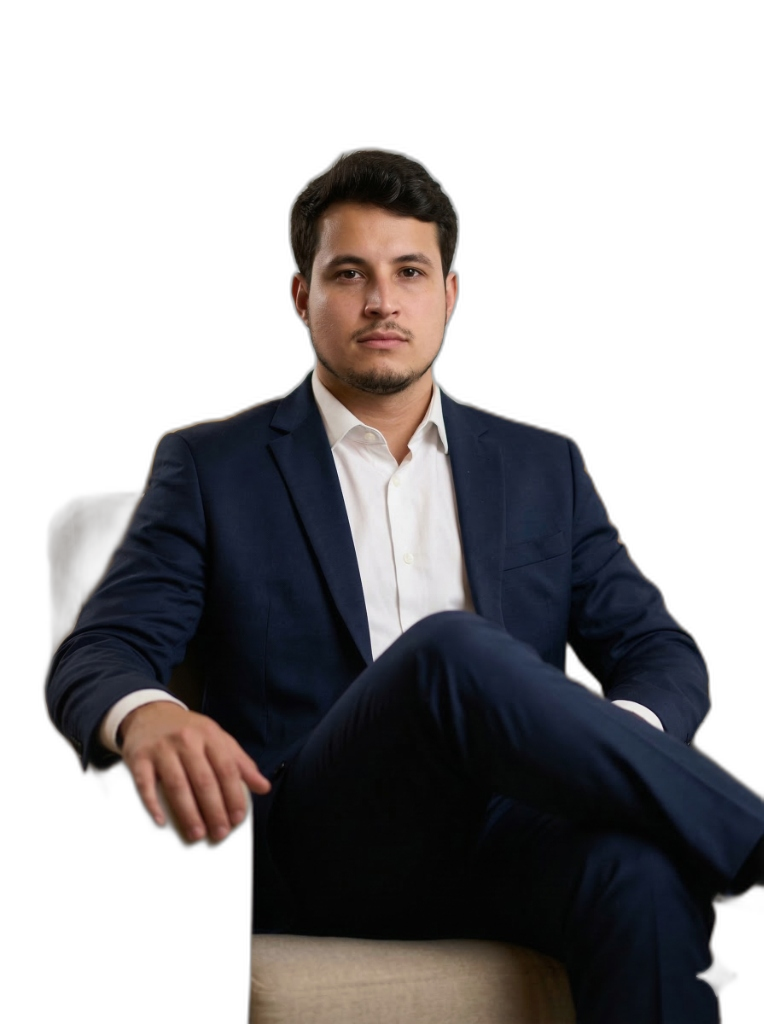
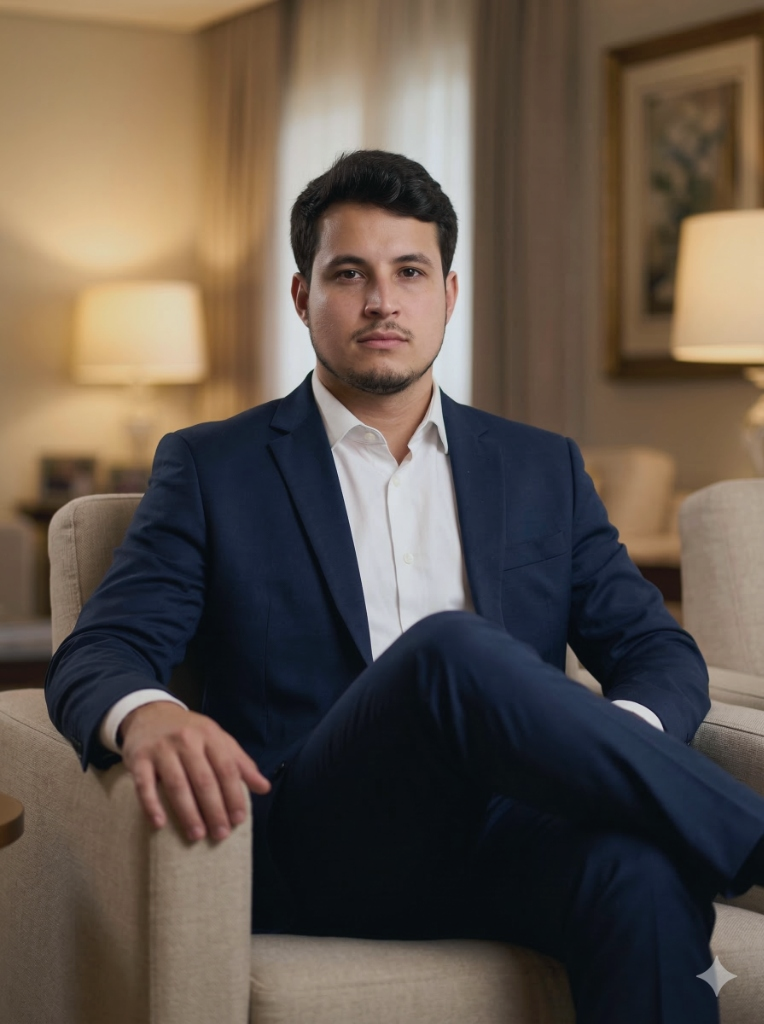
style: ajustes visuais - tom azul acinzentado, fonte serif (Playfair Display), imagens transparentes, hero maior
- Paleta de cores atualizada para azul acinzentado (#2B4361) matching a logo
- Fonte de headings trocada de Montserrat para Playfair Display (serif)
- Imagens hero e about processadas com rembg (transparência real)
- Logo processada com PIL (remoção de fundo branco)
- Imagem do consultório neurológico gerada (ressonância magnética)
- About photo mantém sofá com blue tint
- Hero image ampliada (max-width 800px)
- Backgrounds atualizados de blue-* para slate-*

diff --git a/index.html b/index.html
@@ -1,68 +1,75 @@
 <!DOCTYPE html>
 <html lang="pt-BR">
-  <head>
-    <meta charset="UTF-8" />
-    <meta name="viewport" content="width=device-width, initial-scale=1.0" />
-    <title>Dr. Caio Tardim | Neurologista no Rio de Janeiro</title>
-    <meta name="description" content="Neurologista especializado em diagnóstico e tratamento de doenças neurológicas. Neuroimunologia, cefaleia, Parkinson, Alzheimer e mais. Rio de Janeiro - RJ." />
 
-    <!-- Google Tag Manager -->
-    <script>
-      (function(w,d,s,l,i){
-        w[l]=w[l]||[]; w[l].push({'gtm.start': new Date().getTime(), event:'gtm.js'});
-        var f=d.getElementsByTagName(s)[0], j=d.createElement(s), dl=l!='dataLayer'?'&l='+l:'';
-        j.async=true; j.src='https://www.googletagmanager.com/gtm.js?id='+i+dl;
-        f.parentNode.insertBefore(j,f);
-      })(window,document,'script','dataLayer','GTM-KK4H6Z5G');
-    </script>
-    <!-- End Google Tag Manager -->
-    
-    <!-- Google Fonts -->
-    <link rel="preconnect" href="https://fonts.googleapis.com">
-    <link rel="preconnect" href="https://fonts.gstatic.com" crossorigin>
-    <link href="https://fonts.googleapis.com/css2?family=Montserrat:wght@400;500;600;700;800&family=Open+Sans:wght@400;500;600&display=swap" rel="stylesheet">
+<head>
+  <meta charset="UTF-8" />
+  <meta name="viewport" content="width=device-width, initial-scale=1.0" />
+  <title>Dr. Caio Tardim | Neurologista no Rio de Janeiro</title>
+  <meta name="description"
+    content="Neurologista especializado em diagnóstico e tratamento de doenças neurológicas. Neuroimunologia, cefaleia, Parkinson, Alzheimer e mais. Rio de Janeiro - RJ." />
 
-    <!-- Tailwind CSS -->
-    <script src="https://cdn.tailwindcss.com"></script>
-    
-    <!-- Tailwind Config -->
-    <script>
-      tailwind.config = {
-        theme: {
-          extend: {
-            fontFamily: {
-              sans: ['"Open Sans"', 'sans-serif'],
-              heading: ['"Montserrat"', 'sans-serif'],
+  <!-- Google Tag Manager -->
+  <script>
+    (function (w, d, s, l, i) {
+      w[l] = w[l] || []; w[l].push({ 'gtm.start': new Date().getTime(), event: 'gtm.js' });
+      var f = d.getElementsByTagName(s)[0], j = d.createElement(s), dl = l != 'dataLayer' ? '&l=' + l : '';
+      j.async = true; j.src = 'https://www.googletagmanager.com/gtm.js?id=' + i + dl;
+      f.parentNode.insertBefore(j, f);
+    })(window, document, 'script', 'dataLayer', 'GTM-KK4H6Z5G');
+  </script>
+  <!-- End Google Tag Manager -->
+
+  <!-- Google Fonts -->
+  <link rel="preconnect" href="https://fonts.googleapis.com">
+  <link rel="preconnect" href="https://fonts.gstatic.com" crossorigin>
+  <link
+    href="https://fonts.googleapis.com/css2?family=Playfair+Display:wght@400;500;600;700;800&family=Open+Sans:wght@400;500;600&display=swap"
+    rel="stylesheet">
+
+  <!-- Tailwind CSS -->
+  <script src="https://cdn.tailwindcss.com"></script>
+
+  <!-- Tailwind Config -->
+  <script>
+    tailwind.config = {
+      theme: {
+        extend: {
+          fontFamily: {
+            sans: ['"Open Sans"', 'sans-serif'],
+            heading: ['"Playfair Display"', 'serif'],
+          },
+          colors: {
+            primary: {
+              DEFAULT: '#2B4361', // Azul acinzentado (tom da logo)
+              dark: '#1A2F45',    // Azul escuro acinzentado
+              light: '#EEF2F7',   // Fundo claro azulado
             },
-            colors: {
-              primary: {
-                DEFAULT: '#2856A8', // Azul Institucional
-                dark: '#1B3A72',    // Azul Escuro
-                light: '#F0F6FF',   // Fundo Claro
-              },
-              secondary: '#4FA4D6', // Ciano/Acento
-              whatsapp: '#25D366',
-            },
-            backgroundImage: {
-              'hero-gradient': 'linear-gradient(to bottom right, #FFFFFF, #F0F6FF)',
-            },
-            boxShadow: {
-              'soft': '0 10px 40px -10px rgba(40, 86, 168, 0.1)',
-            }
+            secondary: '#5A8BAD', // Ciano/Acento acinzentado
+            whatsapp: '#25D366',
+          },
+          backgroundImage: {
+            'hero-gradient': 'linear-gradient(to bottom right, #FFFFFF, #EEF2F7)',
+          },
+          boxShadow: {
+            'soft': '0 10px 40px -10px rgba(43, 67, 97, 0.1)',
           }
         }
       }
-    </script>
-  
-  </head>
-  <body class="font-sans text-gray-700 antialiased bg-white">
-    <!-- Google Tag Manager (noscript) -->
-    <noscript>
-      <iframe src="https://www.googletagmanager.com/ns.html?id=GTM-KK4H6Z5G" height="0" width="0" style="display:none;visibility:hidden"></iframe>
-    </noscript>
-    <!-- End Google Tag Manager (noscript) -->
-    <div id="root"></div>
-    <!-- Inicialização da aplicação React via Vite -->
-    <script type="module" src="/index.tsx"></script>
-  </body>
+    }
+  </script>
+
+</head>
+
+<body class="font-sans text-gray-700 antialiased bg-white">
+  <!-- Google Tag Manager (noscript) -->
+  <noscript>
+    <iframe src="https://www.googletagmanager.com/ns.html?id=GTM-KK4H6Z5G" height="0" width="0"
+      style="display:none;visibility:hidden"></iframe>
+  </noscript>
+  <!-- End Google Tag Manager (noscript) -->
+  <div id="root"></div>
+  <!-- Inicialização da aplicação React via Vite -->
+  <script type="module" src="/index.tsx"></script>
+</body>
+
 </html>

diff --git a/components/Hero.tsx b/components/Hero.tsx
@@ -19,13 +19,13 @@ const Hero: React.FC = () => {
   ];
 
   return (
-    <section id="home" className="relative pt-32 pb-0 lg:pt-40 lg:pb-0 bg-gradient-to-br from-white via-blue-50 to-white overflow-hidden min-h-[90vh] flex flex-col justify-end">
+    <section id="home" className="relative pt-32 pb-0 lg:pt-40 lg:pb-0 bg-gradient-to-br from-white via-slate-50 to-white overflow-hidden min-h-[90vh] flex flex-col justify-end">
 
       {/* Background Organic Elements (Fluidez) */}
       <div className="absolute top-0 left-0 w-full h-full overflow-hidden pointer-events-none">
-        <div className="absolute top-[-10%] right-[-5%] w-[600px] h-[600px] bg-blue-100/50 rounded-full blur-3xl opacity-70 animate-pulse"></div>
-        <div className="absolute top-[20%] left-[-10%] w-[500px] h-[500px] bg-cyan-50/60 rounded-full blur-3xl opacity-60"></div>
-        <div className="absolute bottom-0 right-[20%] w-[800px] h-[600px] bg-gradient-to-t from-blue-100/80 to-transparent rounded-t-full blur-2xl opacity-50"></div>
+        <div className="absolute top-[-10%] right-[-5%] w-[600px] h-[600px] bg-slate-200/50 rounded-full blur-3xl opacity-70 animate-pulse"></div>
+        <div className="absolute top-[20%] left-[-10%] w-[500px] h-[500px] bg-slate-100/60 rounded-full blur-3xl opacity-60"></div>
+        <div className="absolute bottom-0 right-[20%] w-[800px] h-[600px] bg-gradient-to-t from-slate-200/80 to-transparent rounded-t-full blur-2xl opacity-50"></div>
       </div>
 
       <div className="container mx-auto px-6 lg:px-12 relative z-10 h-full flex flex-col lg:flex-row items-center">
@@ -41,7 +41,7 @@ const Hero: React.FC = () => {
             initial={{ opacity: 0, y: 10 }}
             animate={{ opacity: 1, y: 0 }}
             transition={{ delay: 0.2 }}
-            className="inline-block px-6 py-2 rounded-full bg-white shadow-sm text-primary font-bold tracking-wide mb-6 border border-blue-100 text-sm uppercase"
+            className="inline-block px-6 py-2 rounded-full bg-white shadow-sm text-primary font-bold tracking-wide mb-6 border border-slate-200 text-sm uppercase"
           >
             NEUROLOGIA CLÍNICA
           </motion.span>
@@ -92,7 +92,7 @@ const Hero: React.FC = () => {
           animate={{ opacity: 1, y: 0 }}
           transition={{ duration: 1, delay: 0.2, ease: "easeOut" }}
         >
-          <div className="relative z-10 w-full max-w-[650px] lg:-mr-12">
+          <div className="relative z-10 w-full max-w-[800px] lg:-mr-12">
             {/* Main Photo */}
             <ImageWithFallback
               src={HERO_IMG_SRC}

diff --git a/components/About.tsx b/components/About.tsx
@@ -28,7 +28,7 @@ const About: React.FC = () => {
             viewport={{ once: true }}
             transition={{ duration: 0.8 }}
           >
-            <div className="absolute top-10 right-10 lg:right-0 w-[110%] h-[95%] bg-gradient-to-br from-blue-100 to-blue-50 rounded-[4rem] transform rotate-3 -z-10"></div>
+            <div className="absolute top-10 right-10 lg:right-0 w-[110%] h-[95%] bg-gradient-to-br from-slate-200 to-slate-100 rounded-[4rem] transform rotate-3 -z-10"></div>
             <div className="absolute -bottom-10 -left-10 w-40 h-40 bg-secondary/10 rounded-full blur-2xl -z-10"></div>
 
             <div className="relative w-full max-w-xl">
@@ -48,7 +48,7 @@ const About: React.FC = () => {
             viewport={{ once: true }}
             transition={{ duration: 0.8, delay: 0.2 }}
           >
-            <span className="inline-block text-secondary font-bold uppercase tracking-widest text-sm mb-3 bg-blue-50 px-3 py-1 rounded-lg">Quem cuidará de você</span>
+            <span className="inline-block text-secondary font-bold uppercase tracking-widest text-sm mb-3 bg-slate-100 px-3 py-1 rounded-lg">Quem cuidará de você</span>
             <h2 className="font-heading text-4xl lg:text-5xl font-bold text-gray-900 mb-8 leading-tight">
               Dr. Caio Tardim
             </h2>

diff --git a/components/Guarantee.tsx b/components/Guarantee.tsx
@@ -19,7 +19,7 @@ const Guarantee: React.FC = () => {
         <h2 className="font-heading text-3xl md:text-4xl font-bold mb-4">Você está a um passo do seu tratamento!</h2>
         <p className="font-heading text-xl md:text-2xl text-secondary font-semibold mb-6">Alguns sintomas neurológicos não devem esperar</p>
 
-        <p className="text-lg md:text-xl text-blue-100 max-w-3xl mx-auto mb-10 leading-relaxed">
+        <p className="text-lg md:text-xl text-slate-200 max-w-3xl mx-auto mb-10 leading-relaxed">
           Se você apresenta sintomas como dores de cabeça frequentes, formigamentos, tremores, alterações de memória, entre outros, agende agora uma consulta para esclarecer o seu quadro e receber orientação sobre a melhor conduta.
         </p>
 

diff --git a/components/Steps.tsx b/components/Steps.tsx
@@ -32,7 +32,7 @@ const Steps: React.FC = () => {
                         >
                             {/* Number */}
                             <div className="flex-shrink-0">
-                                <div className="w-16 h-16 bg-primary rounded-2xl flex items-center justify-center shadow-lg shadow-blue-200">
+                                <div className="w-16 h-16 bg-primary rounded-2xl flex items-center justify-center shadow-lg shadow-slate-200">
                                     <span className="text-white font-heading font-bold text-xl">{step.number}</span>
                                 </div>
                                 {index < STEPS_LIST.length - 1 && (
